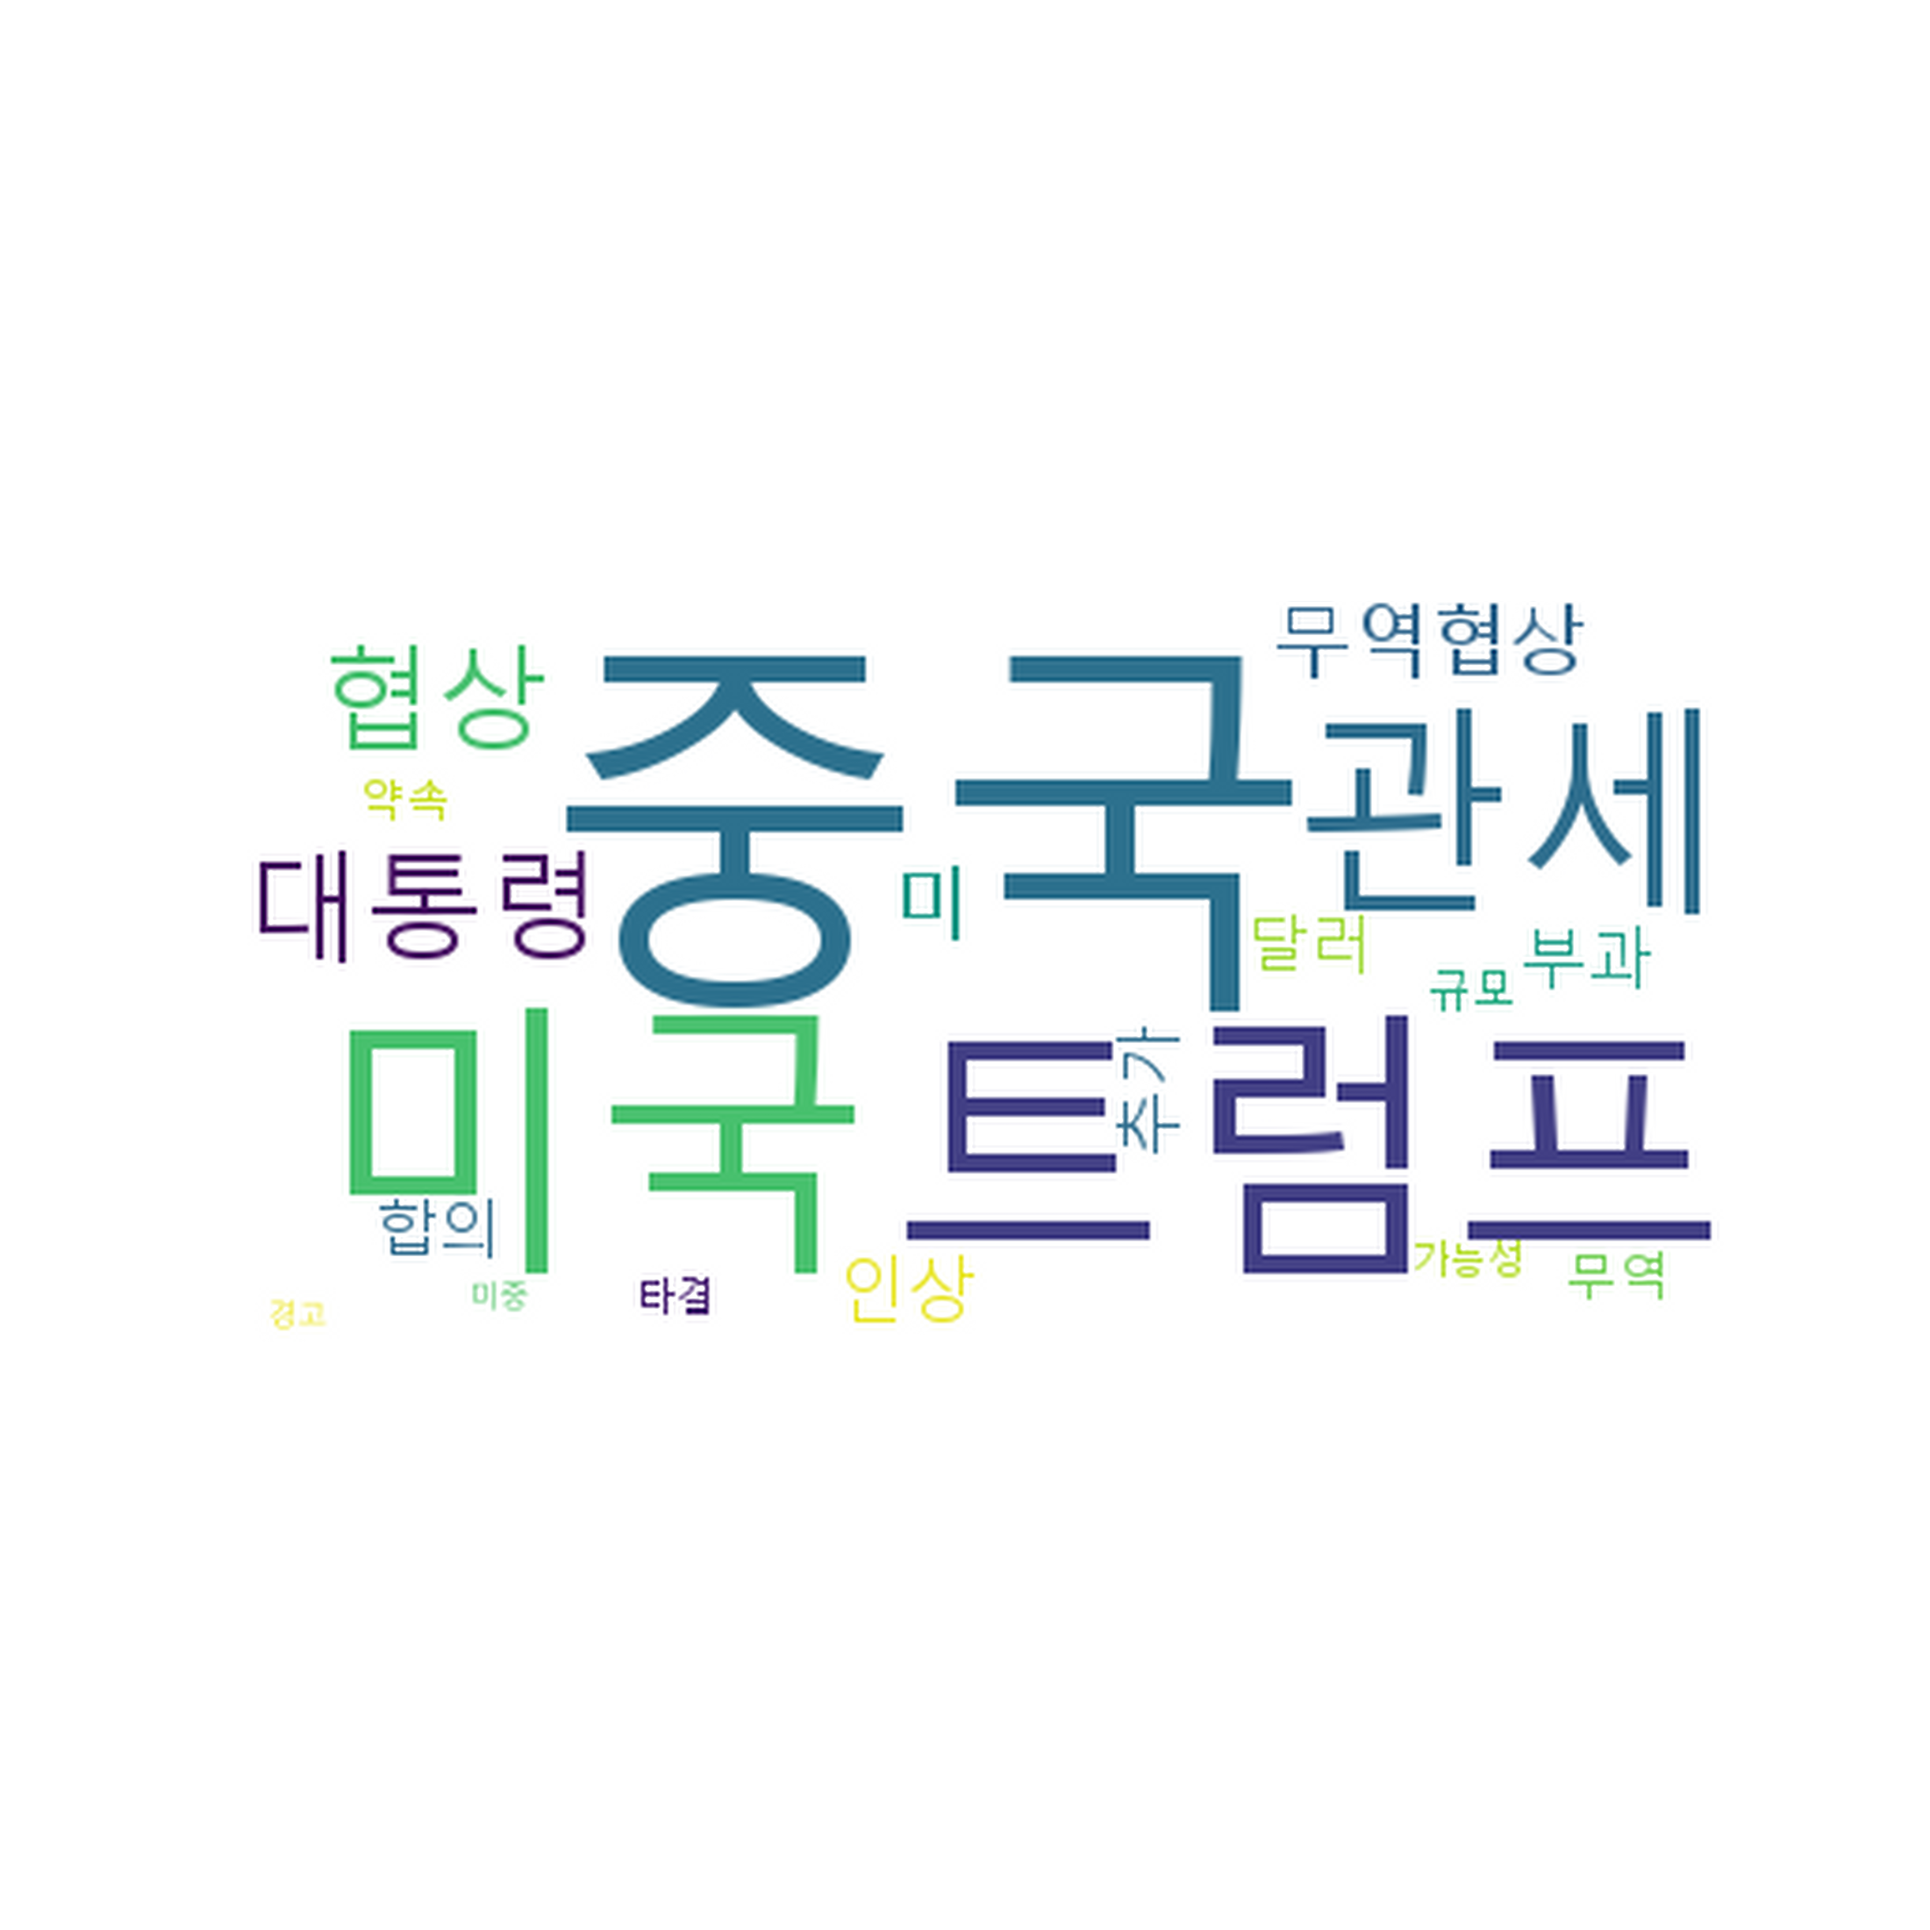
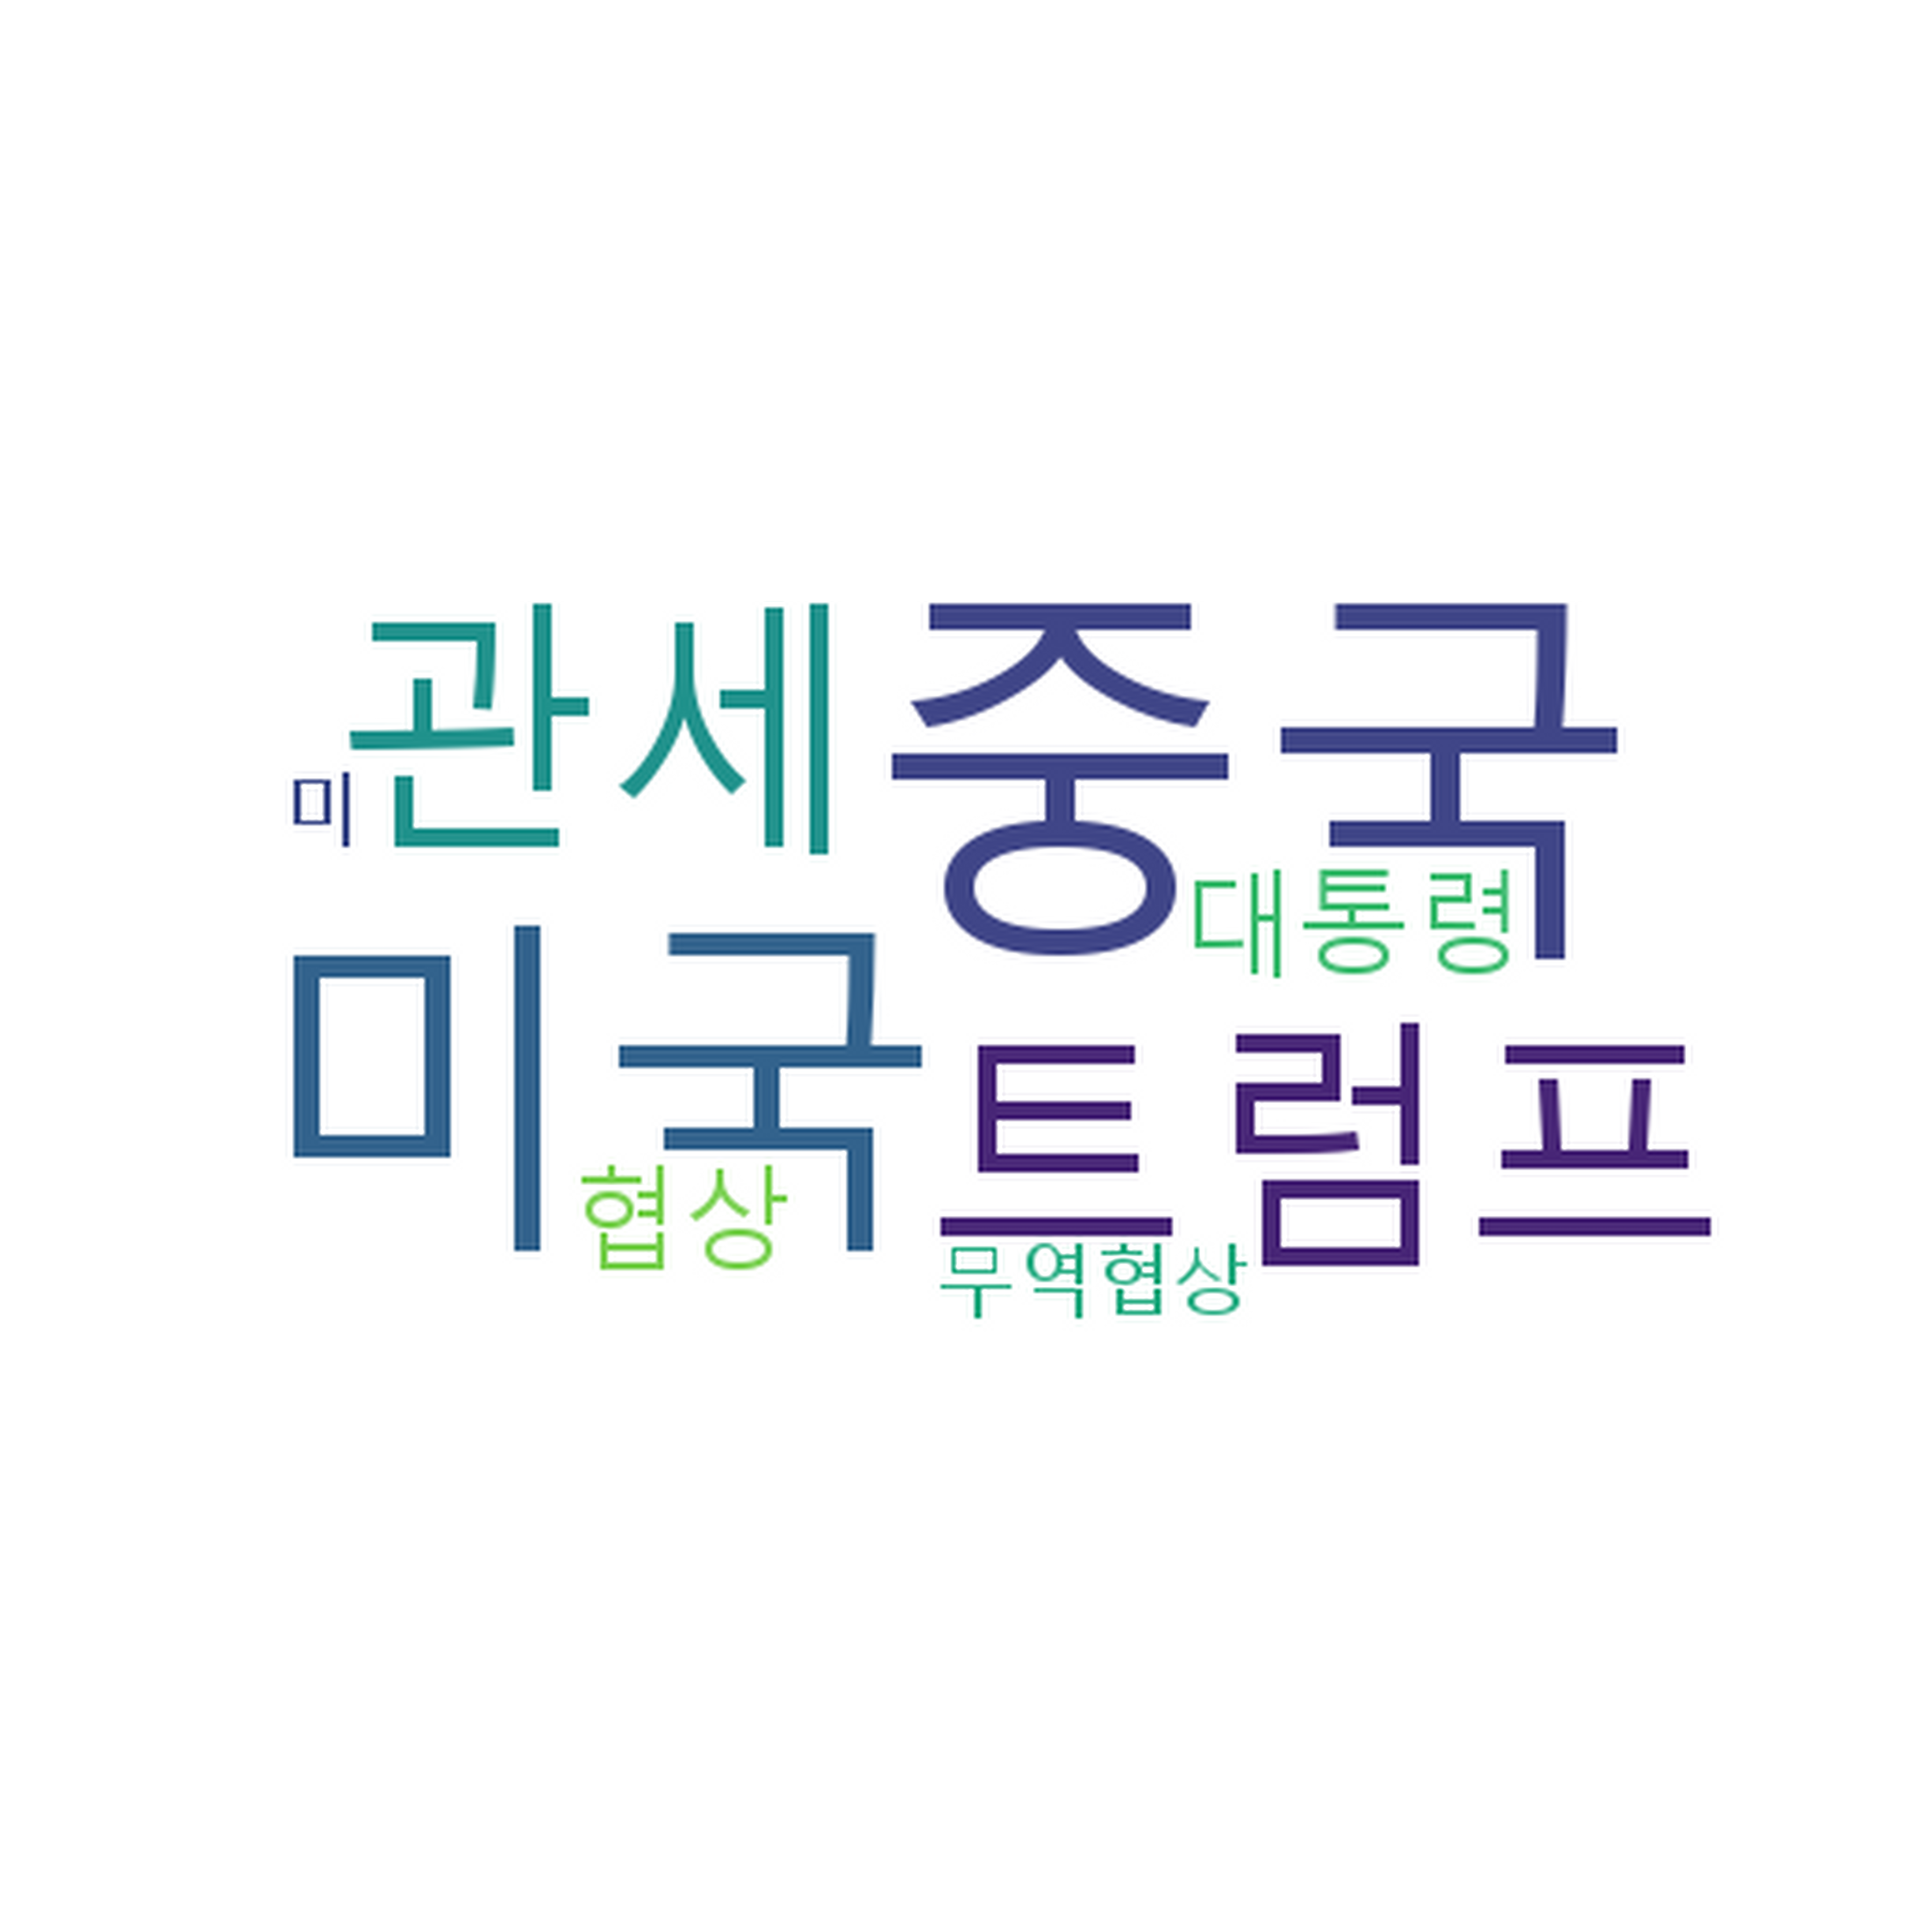
wordlist 추출

Changed region(s): [[0.1236, 0.3091, 0.8964, 0.68]]

diff --git a/Evaluation/Topic_wordlist.py b/Evaluation/Topic_wordlist.py
@@ -1,0 +1,35 @@
+from wordcloud import WordCloud
+import matplotlib.pyplot as plt
+import csv
+import pandas as pd
+import sys
+from collections import Counter
+
+lists=[]
+
+df = pd.read_csv("./Visualize/2019.csv", encoding="utf-8")
+
+df.dropna()
+for i in range(1, 13, 1):
+    for j in range(0, 100, 1):
+        count = 0
+        topics = []
+        for index, row in df.iterrows():
+            tmp = row['labels'].split(',')
+            month = tmp[0]
+            cluster_num = tmp[1]
+            if(int(month) == i and cluster_num == str(j)):
+                count+=1
+                topics.extend(row['topics'].split(', '))
+        if(count >= 40):
+            print(i, j)
+            hot_topic_index = Counter(topics).most_common(10)
+            hot_topic = dict(hot_topic_index)
+            tmp = ', '.join(list(hot_topic.keys()))
+            print(tmp)
+            lists.append(tmp)
+        elif(count == 0):
+            break
+
+s = pd.DataFrame(lists, columns=['wordlist'])
+s.to_csv('2019_wordlist.csv', index=False, header=True,encoding="utf-8-sig")
